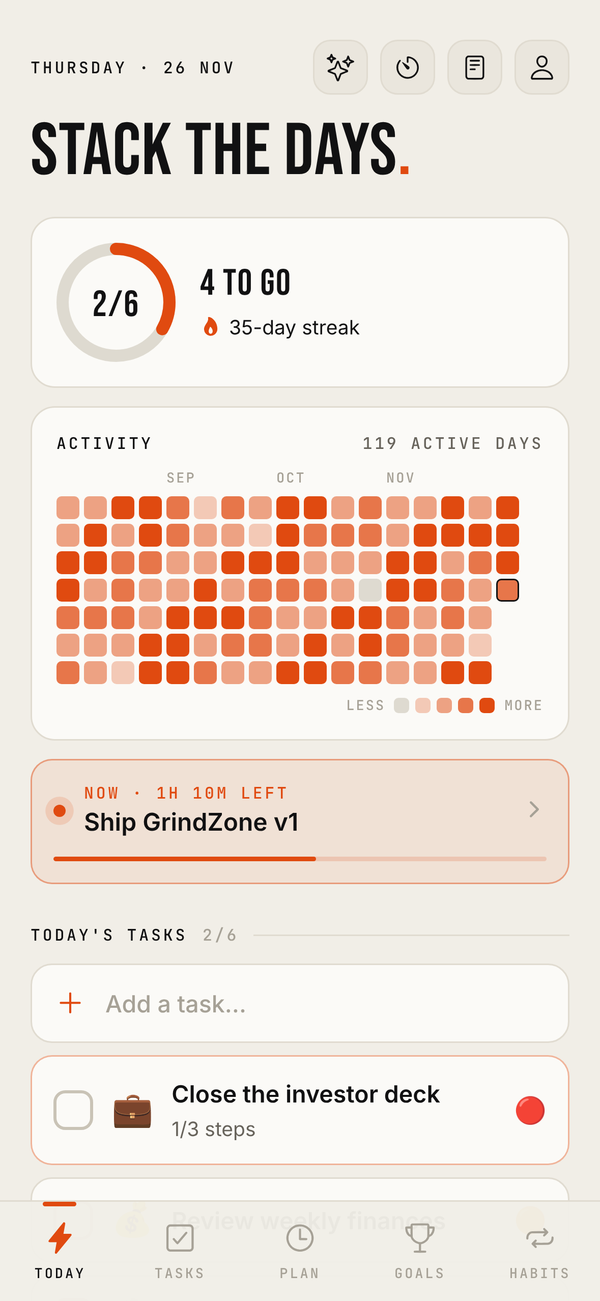
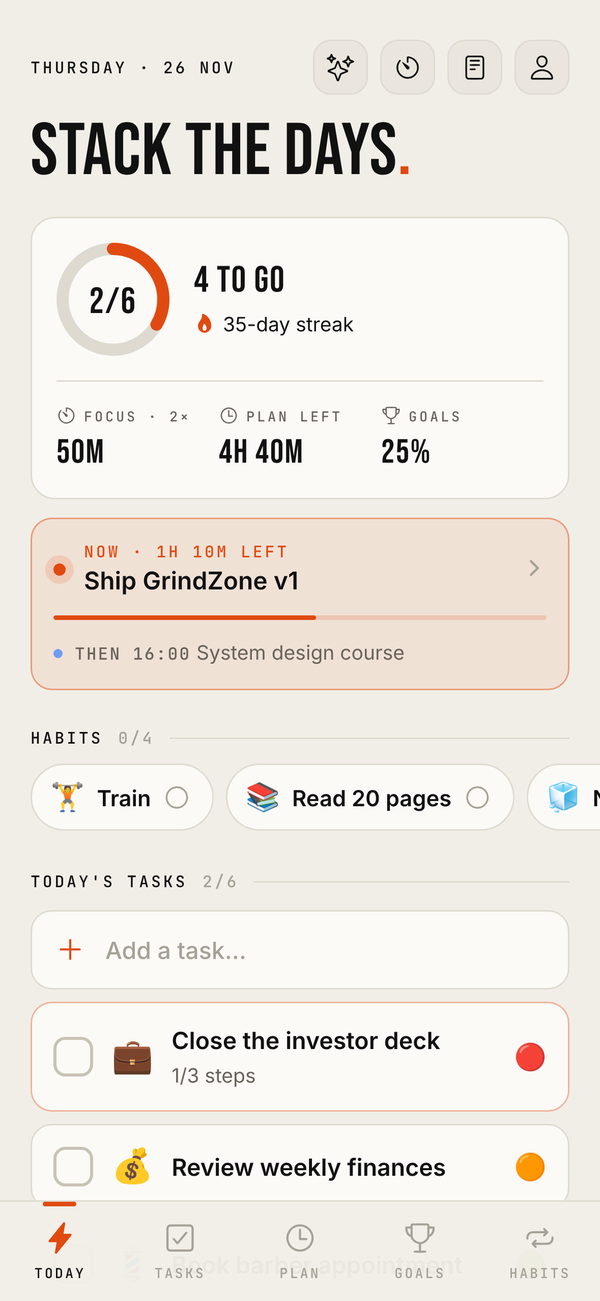
Today: day-at-a-glance card, now/then, habit check-ins; activity map only in Profile
- Removed the activity heatmap from Today (it stays in Profile)
- Day card: tasks ring and streak plus focus time today, plan time
  left and overall goals %, each tappable
- The schedule card shows what comes next ("THEN 16:00 …") and skips
  blocks you've crossed off
- Today's habits as chips: tap to tick one off, hold to open it
- README and screenshots updated

Claude-Session: https://claude.ai/code/session_01CpnqKBYkFEMMjAgbcPSnAW

diff --git a/src/app/(tabs)/index.tsx b/src/app/(tabs)/index.tsx
@@ -7,7 +7,6 @@ import { useSafeAreaInsets } from 'react-native-safe-area-context';
 
 import { PulseDot } from '@/components/bits';
 import { FocusPill } from '@/components/FocusEngine';
-import { Heatmap } from '@/components/Heatmap';
 import { DoneToggle, QuickAdd } from '@/components/ListBits';
 import { ProgressRing } from '@/components/ProgressRing';
 import { ReorderableTasks } from '@/components/ReorderableTasks';
@@ -19,27 +18,30 @@ import { addDays, dayNum, fmtDuration, fmtMin, minutesNow, monthShort, todayKey,
 import { haptic } from '@/lib/haptics';
 import { mantraOfTheDay } from '@/lib/quotes';
 import { useNow } from '@/lib/useNow';
-import { useData, type Block } from '@/store/data';
+import { toggleHabit } from '@/store/actions';
+import { useData, type Block, type Habit } from '@/store/data';
 import { closeSwipes, useDrag } from '@/store/drag';
 import { useFocus } from '@/store/focus';
-import { activeDays, activityByDay, blockNow, blocksForDay, currentStreak, tasksForDay } from '@/store/selectors';
+import { activeDays, alive, blockNow, blocksForDay, currentStreak, goalsProgress, tasksForDay } from '@/store/selectors';
 import { useSettings } from '@/store/settings';
 import { useSync } from '@/store/sync';
 import { alpha, fonts, useTheme } from '@/theme';
 
 /**
  * Today = one question: what do I do today?
- * Your line for the day, progress, your activity history, what's on the schedule, and today's tasks.
+ * Your line for the day, one card with how the day is going (tasks, streak, focus, plan time left,
+ * goals), what's on the schedule now and next, today's habits to tick off, and today's tasks.
+ * (The long-term activity map lives in Profile.)
  */
 export default function TodayScreen() {
   const { c, accent } = useTheme();
   const tasks = useData((s) => s.tasks);
   const blocks = useData((s) => s.blocks);
   const goals = useData((s) => s.goals);
-  const notes = useData((s) => s.notes);
   const habits = useData((s) => s.habits);
   const create = useData((s) => s.create);
   const focusHistory = useFocus((s) => s.history);
+  const focusMin = useFocus((s) => s.focusMin);
   const customMantra = useSettings((s) => s.customMantra);
   const mantraSize = useSettings((s) => s.mantraSize ?? 48);
   const syncError = useSync((s) => s.status === 'error');
@@ -50,7 +52,7 @@ export default function TodayScreen() {
 
   const today = todayKey();
   const nowMin = minutesNow();
-  const { open, done, dayBlocks, streak, activity } = useMemo(() => {
+  const { open, done, dayBlocks, streak, goalsPct, habitList } = useMemo(() => {
     const day = tasksForDay(tasks, today);
     return {
       ...day,
@@ -60,16 +62,19 @@ export default function TodayScreen() {
           .filter((b) => b.end_min > 1440)
           .map((b) => ({ ...b, start_min: b.start_min - 1440, end_min: b.end_min - 1440 })),
         ...blocksForDay(blocks, today),
-      ],
+      ].filter((b) => !b.done),
       streak: currentStreak(activeDays(tasks, goals, habits, focusHistory), today),
-      activity: activityByDay({ tasks, blocks, notes, habits, goals, focus: focusHistory }),
+      goalsPct: goalsProgress(goals),
+      habitList: alive(habits).sort((a, b) => a.sort_order - b.sort_order || a.created_at.localeCompare(b.created_at)),
     };
-  }, [tasks, blocks, goals, notes, habits, focusHistory, today]);
+  }, [tasks, blocks, goals, habits, focusHistory, today]);
 
   const total = open.length + done.length;
   const { current, upcoming } = blockNow(dayBlocks, nowMin);
   const headline = total === 0 ? 'NO TASKS YET' : open.length === 0 ? 'ALL DONE' : `${open.length} TO GO`;
-  const activeDaysCount = Object.values(activity).filter((n) => n > 0).length;
+  const focusToday = focusHistory[today] ?? 0;
+  // Time still planned for today: what's left of the blocks you haven't crossed off.
+  const planLeft = dayBlocks.reduce((acc, b) => acc + Math.max(0, b.end_min - Math.max(b.start_min, nowMin)), 0);
   const mantra = customMantra.trim() || mantraOfTheDay();
 
   return (
@@ -109,42 +114,57 @@ export default function TodayScreen() {
             </Press>
           </Animated.View>
 
-          {/* Progress at a glance */}
+          {/* The day at a glance */}
           <Animated.View entering={FadeInDown.delay(70).duration(450)}>
-            <Card style={{ marginTop: 18, flexDirection: 'row', alignItems: 'center', gap: 16 }}>
-              <ProgressRing value={total ? done.length / total : 0} size={78} stroke={8}>
-                <Txt variant="h2" style={{ marginTop: 3 }}>
-                  {done.length}/{total}
-                </Txt>
-              </ProgressRing>
-              <View style={{ flex: 1, gap: 6 }}>
-                <Txt variant="h2">{headline}</Txt>
-                <View style={{ flexDirection: 'row', alignItems: 'center', gap: 5 }}>
-                  <Ionicons name="flame" size={14} color={streak ? accent : c.textFaint} />
-                  <Txt variant="small" color={streak ? c.text : c.textDim}>
-                    {streak ? `${streak}-day streak` : 'Finish something to start a streak'}
+            <Card style={{ marginTop: 18, gap: 16 }}>
+              <View style={{ flexDirection: 'row', alignItems: 'center', gap: 16 }}>
+                <ProgressRing value={total ? done.length / total : 0} size={74} stroke={8}>
+                  <Txt variant="h2" style={{ marginTop: 3 }}>
+                    {done.length}/{total}
                   </Txt>
+                </ProgressRing>
+                <View style={{ flex: 1, gap: 6 }}>
+                  <Txt variant="h2">{headline}</Txt>
+                  <View style={{ flexDirection: 'row', alignItems: 'center', gap: 5 }}>
+                    <Ionicons name="flame" size={14} color={streak ? accent : c.textFaint} />
+                    <Txt variant="small" color={streak ? c.text : c.textDim}>
+                      {streak ? `${streak}-day streak` : 'Finish something to start a streak'}
+                    </Txt>
+                  </View>
                 </View>
               </View>
-            </Card>
-          </Animated.View>
-
-          {/* Activity history, GitHub-style */}
-          <Animated.View entering={FadeInDown.delay(120).duration(450)}>
-            <Card style={{ marginTop: 12, gap: 10 }}>
-              <View style={{ flexDirection: 'row', alignItems: 'baseline' }}>
-                <Txt variant="label" color={c.text} style={{ flex: 1 }}>
-                  ACTIVITY
-                </Txt>
-                <Txt variant="label">{activeDaysCount} ACTIVE DAYS</Txt>
+              <View style={{ height: 1, backgroundColor: c.border }} />
+              <View style={{ flexDirection: 'row' }}>
+                <MiniStat
+                  icon="timer-outline"
+                  value={focusToday ? fmtDuration(focusToday * focusMin).toLowerCase() : '—'}
+                  label={focusToday ? `FOCUS · ${focusToday}×` : 'FOCUS'}
+                  onPress={() => router.push('/focus')}
+                />
+                <MiniStat
+                  icon="time-outline"
+                  value={planLeft ? fmtDuration(planLeft).toLowerCase() : '—'}
+                  label="PLAN LEFT"
+                  onPress={() => router.navigate('/plan')}
+                />
+                <MiniStat
+                  icon="trophy-outline"
+                  value={goalsPct.total ? `${Math.round(goalsPct.progress * 100)}%` : '—'}
+                  label="GOALS"
+                  onPress={() => router.navigate('/goals')}
+                />
               </View>
-              <Heatmap counts={activity} weeks={17} />
             </Card>
           </Animated.View>
 
           <FocusPill />
 
-          {current || upcoming[0] ? <ScheduleLine block={current ?? upcoming[0]} isNow={!!current} nowMin={nowMin} /> : null}
+          {current || upcoming[0] ? (
+            <ScheduleLine block={current ?? upcoming[0]} isNow={!!current} nowMin={nowMin} next={current ? upcoming[0] : upcoming[1]} />
+          ) : null}
+
+          {/* Today's habits: tick them off right here */}
+          {habitList.length ? <HabitStrip habits={habitList} today={today} /> : null}
 
           {/* Today's tasks */}
           <Section label="TODAY'S TASKS" count={`${done.length}/${total}`} style={{ marginTop: 26, marginBottom: 12 }} />
@@ -176,8 +196,8 @@ export default function TodayScreen() {
   );
 }
 
-/** One line: what you should be doing now (or what's next). Tap to open the plan. */
-function ScheduleLine({ block, isNow, nowMin }: { block: Block; isNow: boolean; nowMin: number }) {
+/** What you should be doing now (or what's next), and what comes after it. Tap to open the plan. */
+function ScheduleLine({ block, isNow, nowMin, next }: { block: Block; isNow: boolean; nowMin: number; next?: Block }) {
   const { c, accent } = useTheme();
   const col = blockColor(block.category, accent);
   const title = block.title || BLOCK_CATEGORIES[block.category].label;
@@ -208,7 +228,78 @@ function ScheduleLine({ block, isNow, nowMin }: { block: Block; isNow: boolean; 
         <Ionicons name="chevron-forward" size={16} color={c.textFaint} />
       </View>
       {isNow ? <ProgressBar value={progress} color={col} height={3} track={alpha(col, 0.18)} style={{ marginTop: 12 }} /> : null}
+      {next ? (
+        <View style={{ flexDirection: 'row', alignItems: 'center', gap: 8, marginTop: 12 }}>
+          <View style={{ width: 6, height: 6, borderRadius: 3, backgroundColor: blockColor(next.category, accent) }} />
+          <Txt variant="small" color={c.textDim} numberOfLines={1} style={{ flex: 1 }}>
+            <Text style={{ fontFamily: fonts.mono, fontSize: 11, letterSpacing: 1 }}>THEN {fmtMin(next.start_min)}</Text>
+            {'  '}
+            {next.title || BLOCK_CATEGORIES[next.category].label.charAt(0) + BLOCK_CATEGORIES[next.category].label.slice(1).toLowerCase()}
+          </Txt>
+        </View>
+      ) : null}
     </Press>
+  );
+}
+
+/** A small tappable stat in the day card. */
+function MiniStat({ icon, value, label, onPress }: { icon: React.ComponentProps<typeof Ionicons>['name']; value: string; label: string; onPress: () => void }) {
+  const { c } = useTheme();
+  return (
+    <Press onPress={onPress} tapHaptic scaleTo={0.95} style={{ flex: 1, gap: 4 }}>
+      <View style={{ flexDirection: 'row', alignItems: 'center', gap: 5 }}>
+        <Ionicons name={icon} size={13} color={c.textDim} />
+        <Txt variant="label" style={{ fontSize: 9 }}>
+          {label}
+        </Txt>
+      </View>
+      <Txt variant="h2" style={{ fontSize: 22 }}>
+        {value}
+      </Txt>
+    </Press>
+  );
+}
+
+/** Today's habits as chips: tap to tick one off without leaving Today. */
+function HabitStrip({ habits, today }: { habits: Habit[]; today: string }) {
+  const { c, accent, onAccent } = useTheme();
+  const doneCount = habits.filter((h) => (h.checks ?? []).includes(today)).length;
+  return (
+    <View style={{ marginTop: 24 }}>
+      <Section label="HABITS" count={`${doneCount}/${habits.length}`} style={{ marginBottom: 10 }} />
+      <ScrollView horizontal showsHorizontalScrollIndicator={false} contentContainerStyle={{ gap: 8, paddingRight: 20 }} style={{ marginHorizontal: -20, paddingLeft: 20 }}>
+        {habits.map((h) => {
+          const on = (h.checks ?? []).includes(today);
+          return (
+            <Press
+              key={h.id}
+              scaleTo={0.94}
+              onPress={() => toggleHabit(h.id, today)}
+              onLongPress={() => router.push({ pathname: '/habit/[id]', params: { id: h.id } })}
+              accessibilityLabel={`${h.title}: ${on ? 'done today' : 'not done yet'}`}
+              style={{
+                flexDirection: 'row',
+                alignItems: 'center',
+                gap: 8,
+                height: 44,
+                paddingLeft: 12,
+                paddingRight: 14,
+                borderRadius: 22,
+                backgroundColor: on ? accent : c.surface,
+                borderWidth: 1,
+                borderColor: on ? accent : c.border,
+              }}
+            >
+              {h.emoji ? <Text style={{ fontSize: 18 }}>{h.emoji}</Text> : null}
+              <Txt variant="title" style={{ fontSize: 14.5 }} color={on ? onAccent : c.text} numberOfLines={1}>
+                {h.title || 'Habit'}
+              </Txt>
+              <Ionicons name={on ? 'checkmark-circle' : 'ellipse-outline'} size={18} color={on ? onAccent : c.textFaint} />
+            </Press>
+          );
+        })}
+      </ScrollView>
+    </View>
   );
 }
 

diff --git a/README.md b/README.md
@@ -41,7 +41,7 @@ Most productivity apps split the day across separate tools: one for to-dos, one 
 
 <table>
   <tr>
-    <td align="center"><img src="docs/screenshots/today.png" width="200" alt="Today" /><br /><sub><b>Today</b>: progress, streak, activity map</sub></td>
+    <td align="center"><img src="docs/screenshots/today.png" width="200" alt="Today" /><br /><sub><b>Today</b>: the day at a glance, habits, tasks</sub></td>
     <td align="center"><img src="docs/screenshots/tasks.png" width="200" alt="Tasks" /><br /><sub><b>Tasks</b>: overdue, today, upcoming</sub></td>
     <td align="center"><img src="docs/screenshots/plan.png" width="200" alt="Plan" /><br /><sub><b>Plan</b>: your day as a written plan, or a timeline</sub></td>
     <td align="center"><img src="docs/screenshots/habits.png" width="200" alt="Habits" /><br /><sub><b>Habits</b>: one-tap check-in and streaks</sub></td>
@@ -76,7 +76,7 @@ Most productivity apps split the day across separate tools: one for to-dos, one 
 
 | Area | What it does |
 |---|---|
-| **Today** | Your line for the day (tap to write your own and pick its size, or get a new one each day), a progress ring, a streak counter, a **GitHub-style activity heatmap**, a "now / next" schedule card with a live progress bar, and today's tasks with quick add. |
+| **Today** | Your line for the day (tap to write your own and pick its size, or get a new one each day), one card with how the day is going (tasks ring, streak, focus time, plan time left, goals %), a "now / then" card from your plan with a live progress bar, **today's habits as chips you tick right there**, and today's tasks with quick add. |
 | **Weekly Wrap** | Your week as a story, Spotify Wrapped style: tasks closed, your best day on a **3D bar chart**, habit consistency, deep-work sessions, where your planned time went on a **3D donut**, your "persona" (morning grinder, night owl…), streak, and a **weekly score** with a table comparing every stat to the week before (or the same days last week while the week is still going). |
 | **Tasks** | One list grouped into Overdue, Today, Upcoming and Someday, with **today's productivity** as a bar in the header that turns from red through orange to green as you get closer to 100%. Each task can have an **emoji**, a **priority** shown as an emoji on the right (🔴 high · 🟠 medium · 🟢 low), a due date, notes and a **checklist of steps**. **Swipe left** on a task to delete it (a long swipe deletes straight away; a toast lets you undo). |
 | **Task history** | A month calendar where every day is coloured by how much of that day's list got done (red → amber → light green → green) and shows done/total. Tap a day to see what you finished and what you missed. |
@@ -87,7 +87,7 @@ Most productivity apps split the day across separate tools: one for to-dos, one 
 | **Goals** | A title, a "why", a deadline and its own **checklist of steps** (steps are not tasks). An overall progress bar counts progress in steps across all goals. Achieving a goal triggers a full-screen celebration, and the **trophy history** lists every achieved goal with how long it took and whether it beat the deadline. |
 | **Focus** | Pomodoro with 15 / 25 / 45 / 60-minute sessions and 5 / 10 / 15-minute breaks, plus pause, reset and skip. The timer survives the app being backgrounded or the phone being locked, and **local notifications** fire when a session or break ends. It can be linked to a task. |
 | **Notes** | A full-page notes list with pinning, autosave and search. |
-| **Profile** | Lifetime stats (tasks done, best streak, focus sessions, goals achieved), a 6-month activity map, System / Dark / Light theme, 5 accent colours, a haptics toggle and account management. |
+| **Profile** | Lifetime stats (tasks done, best streak, focus sessions, goals achieved), a **GitHub-style 6-month activity map**, System / Dark / Light theme, 5 accent colours, a haptics toggle and account management. |
 
 ## Tech stack
 
